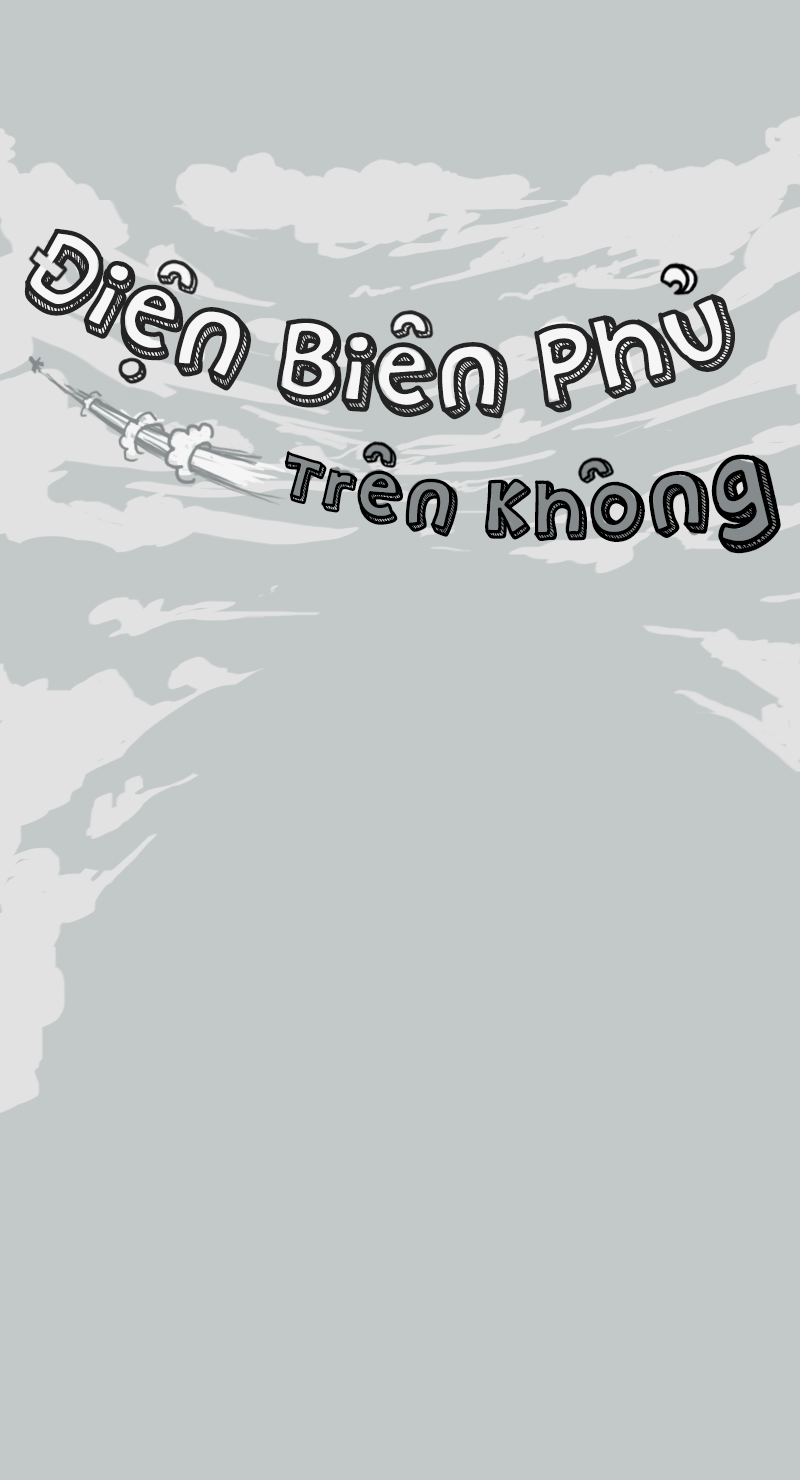
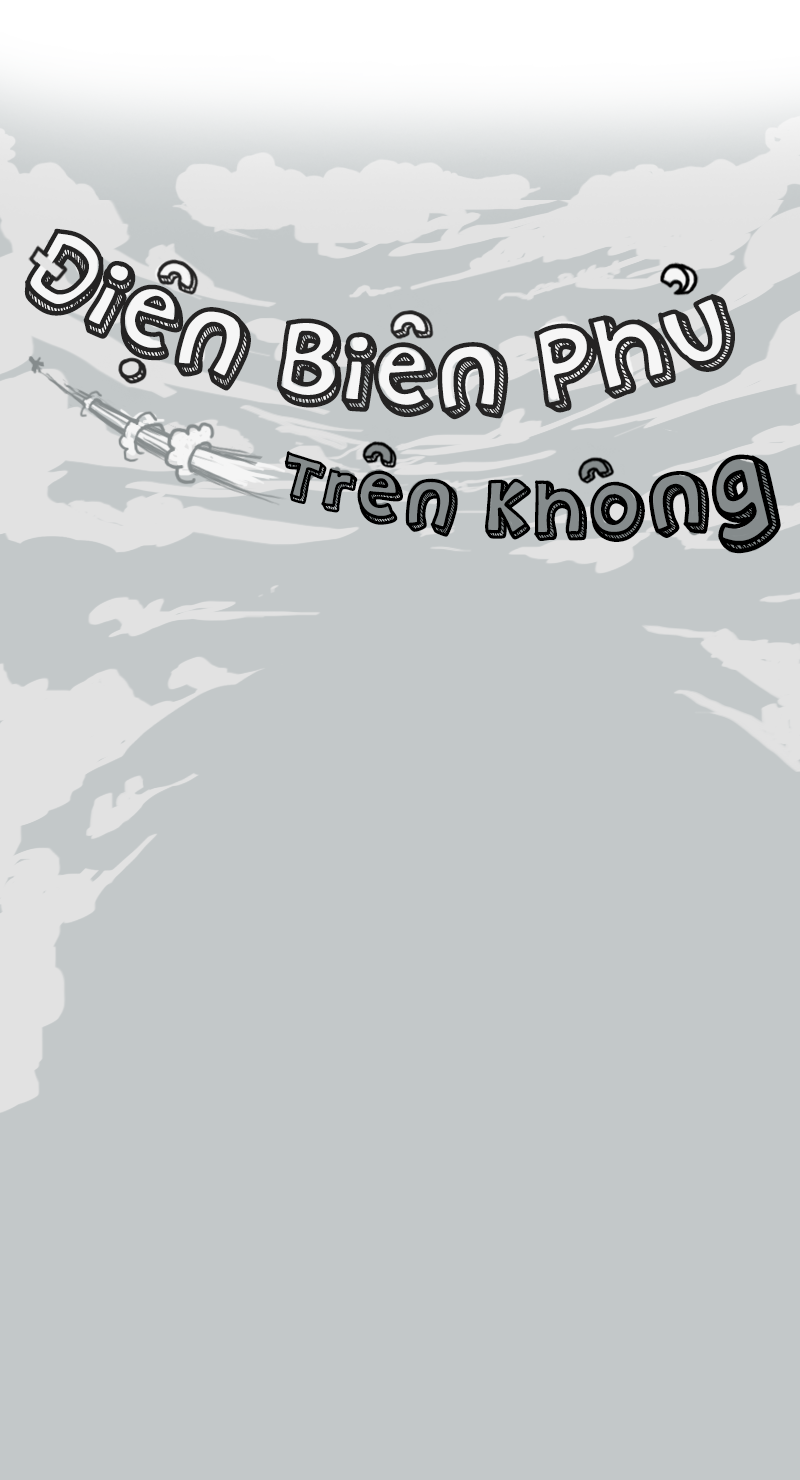
+ Transition: Menu -> Main Game *** BEFORE CHANGE CONFIGURE FILE ***

Changed region(s): [[0.0, 0.0, 1.0, 0.1243]]

diff --git a/trunk/Classes/ScoreScene.cpp b/trunk/Classes/ScoreScene.cpp
@@ -818,26 +818,39 @@ void ScoreScene::fbHighScoresCallback( int responseCode, const char* responseMes
 	m_arrHighScores->retain();
 
 	m_tableXepHangSize = m_arrHighScores->count();
+	std::string myProfileID = DataManager::sharedDataManager()->GetProfileID();
+	int count = m_arrHighScores->count();
 
-	CCObject* it;
-	CCARRAY_FOREACH(m_arrHighScores, it)
+	for (int i = 0; i < count; ++i)
 	{
-		EziFacebookFriend* fbFriend = dynamic_cast<EziFacebookFriend*>(it);
+		EziFacebookFriend* fbFriend = dynamic_cast<EziFacebookFriend*>(m_arrHighScores->objectAtIndex(i));
 		if (NULL != fbFriend)
 		{
 			std::string profileID = fbFriend->getFBID();
-			std::string myProfileID = DataManager::sharedDataManager()->GetProfileID();
 
 			if(profileID == myProfileID)
 			{
 				fbFriend->setScore(DataManager::sharedDataManager()->GetHighScore());
+
+				//////////////////////////////////////////////////////////////////////////
+				//get the next friend to post message
+				if (i+1 < count)
+				{
+					EziFacebookFriend* fbLoser = dynamic_cast<EziFacebookFriend*>(m_arrHighScores->objectAtIndex(i+1));
+					if (fbLoser != NULL)
+					{
+						postMessageToLoser(std::string(fbLoser->getName()),
+							std::string(fbLoser->getFBID()),
+							DataManager::sharedDataManager()->GetHighScore());
+					}
+				}
 			}
-			
+
 			//get avatar
 			EziSocialObject::sharedObject()->getProfilePicForID(this, profileID.c_str(), // Profile ID of current user
 				G_FRIEND_AVATAR_SIZE, G_FRIEND_AVATAR_SIZE, // Size of the image
 				false // force download it from server
-				);
+				);	
 		}
 	}
 
@@ -848,20 +861,29 @@ void ScoreScene::fbHighScoresCallback( int responseCode, const char* responseMes
 	m_tableXephang->reloadData();
 	m_tableQuatang->reloadData();
 	
-	
-	//////////////////////////////////////////////////////////////////////////
-	
-
-	//let try to post message
-	EziSocialObject::sharedObject()->autoPostMessageOnWall(
-		"The Croods",									//heading => Điện Biên Phủ Trên Không
-		"Let got it!",											//caption
-		"Hey, i just got 3000 points in The Croods, do you feel so shy! Kaka :v",		//message => Status
-		"From the creators of Angry Birds and the creative minds at DreamWorks Animation: a FREE new game based on the motion picture phenomenon!",		//descripton
-		"https://lh5.ggpht.com/fblIg4MEELZ7JrBWB9OmEtx07dh-kR83Xwx1KhFMnZHgsk0xw4YreLPrxXwtwZyolGw=w300-rw",		//badgeIconURL
-		"https://play.google.com/store/apps/details?id=com.rovio.croods");							//deepLinkURL
 #endif
 }
+
+void ScoreScene::postMessageToLoser( std::string loserName, std::string loserUserName, int yourScore )
+{
+	CCLOG("postMessageToLoser");
+#if (CC_TARGET_PLATFORM == CC_PLATFORM_ANDROID)
+	CCString* strMessage = CCString::createWithFormat("Hey, i just got %d points in The Croods, following me is %s\nhttps://www.facebook.com/%s! Kaka :v", yourScore, loserName.c_str(), loserUserName.c_str());
+
+	//let try to post message
+	//postMessageOnWall
+	//autoPostMessageOnWall
+
+	EziSocialObject::sharedObject()->autoPostMessageOnWall(
+		"The Croods",					//heading => Điện Biên Phủ Trên Không
+		"Let got it!",					//caption
+		strMessage->getCString(),		//message => Status
+		"From the creators of Angry Birds and the creative minds at DreamWorks Animation: a FREE new game based on the motion picture phenomenon!",	//descripton
+		"http://www.reelmama.com/wp-content/uploads/2013/04/Grug-from-THE-CROODS.jpg", //badgeIconURL
+		"https://play.google.com/store/apps/details?id=com.rovio.croods");	//deepLinkURL
+#endif
+}
+
 
 void ScoreScene::fbMessageCallback(int responseCode, const char* responseMessage)
 {

diff --git a/trunk/Classes/MenuScene.cpp b/trunk/Classes/MenuScene.cpp
@@ -20,7 +20,7 @@ CCScene* MenuScene::scene()
 
 bool MenuScene::init()
 {
-	static int GAME_VERSION = 49;
+	static int GAME_VERSION = 50;
 	//pre proccess
 
 	DataManager::sharedDataManager()->RefreshPlayerLife();
@@ -28,7 +28,7 @@ bool MenuScene::init()
 	//////////////////////////////////////////////////////////////////////////
 	
 
-    if ( !CCLayer::init() )
+    if ( !CCLayerColor::initWithColor(ccc4(195, 200, 201, 255)) )
     {
         return false;
     }
@@ -155,28 +155,46 @@ void MenuScene::refreshLifeIcon()
 
 void MenuScene::playStartAnimation(int lastLife)
 {
+	//CCTransitionProgessVertical
+	//CCTransitionMoveInT
+	//CCTransitionSlideInT
+	
 	CCSprite* spr = (CCSprite*)m_arrSprLife->objectAtIndex(lastLife - 1);
-	CCSequence* seq = CCSequence::create(
-		CCSpawn::create(
-			//CCScaleTo::create(0.5f, 0.0f, 0.0f),
-			//CCFadeOut::create(0.5f)
-			CCMoveTo::create(0.5f, ccp(spr->getPositionX(), 1280 + 200)),
+	float dy = 800;
+
+	CCSpawn* spawn = CCSpawn::create(
+			CCEaseBackIn::create(CCMoveBy::create(dy / 320.0f, ccp(0, dy))),
+			CCSequence::create(
+				CCDelayTime::create(1.0f),
+				CCCallFunc::create(this, callfunc_selector(MenuScene::gotoMainGame)),
+				NULL
+			),
 			NULL
-		),
-		CCCallFunc::create(this, callfunc_selector(MenuScene::gotoMainGame)),
-		NULL);
+		);
+
+	CCSequence* seq = CCSequence::create(
+		//CCDelayTime::create(0.5f),
+		spawn,
+		NULL
+		);
+	
+	MainGameScene::scene();
+
 	spr->runAction(seq);
 }
 
 void MenuScene::gotoMainGame()
 {
-	CCScene *pScene = CCTransitionFade::create(0.5, MainGameScene::scene());
+	CCScene *pScene = CCTransitionSlideInT::create(1280.0f / 480.0f, MainGameScene::scene());
 	CCDirector::sharedDirector()->replaceScene(pScene);
 }
 
 void MenuScene::playCallback(CCObject* pSender)
 {
 	PLAY_ENEMY1_DOWN_EFFECT;
+
+	this->setKeypadEnabled(false);
+	this->setTouchEnabled(false);
 
 	//check if last_player_life > 0
 	int lastLife = DataManager::sharedDataManager()->GetLastPlayerLife();

diff --git a/trunk/Classes/ConfigLoader.cpp b/trunk/Classes/ConfigLoader.cpp
@@ -3,8 +3,20 @@
 
 USING_NS_CC;
 
+//////////////////////////////////////////////////////////////////////////
+
+
+#define CONF_CCSTR(key)		ConfigLoader::shareConfigLoader()->GetValue(key)
+#define CONF_STR(key)		ConfigLoader::shareConfigLoader()->GetValue(key)->getCString()
+#define CONF_INT(key)		ConfigLoader::shareConfigLoader()->GetValue(key)->intValue()
+#define CONF_FLOAT(key)		ConfigLoader::shareConfigLoader()->GetValue(key)->floatValue()
+
+
+//////////////////////////////////////////////////////////////////////////
+
 CCString* ConfigLoader::configeFile = CCStringMake("config.plist");
 ConfigLoader* ConfigLoader::s_instance = NULL;
+
 
 ConfigLoader::ConfigLoader(void)
 {
@@ -14,9 +26,9 @@ ConfigLoader::ConfigLoader(void)
 	CCDictElement* pElement = NULL;
 	CCDICT_FOREACH(m_dict, pElement)
 	{
-		CCString* v = (CCString*)pElement->getObject();
-		std::string oneStrKey = pElement->getStrKey();
-		CCLOG("%s : %s", oneStrKey.c_str(), v->getCString());
+		CCString* val = (CCString*)pElement->getObject();
+		std::string key = pElement->getStrKey();
+		CCLOG("%s : %s", key.c_str(), val->getCString());
 	}
 	CCLOG("------------CONFIG-----------");
 
@@ -88,7 +100,6 @@ ConfigLoader::ConfigLoader(void)
 	G_WAIT_TO_REVIVE = GetValue(std::string("G_WAIT_TO_REVIVE"))->floatValue();
 }
 
-
 ConfigLoader::~ConfigLoader(void)
 {
 }
@@ -105,12 +116,12 @@ ConfigLoader* ConfigLoader::shareConfigLoader()
 
 const CCString* ConfigLoader::GetValue(const std::string key )
 {
-	const CCString* v = m_dict->valueForKey(key);
-	if (v->length() == 0)
+	const CCString* val = m_dict->valueForKey(key);
+	if (val->length() == 0)
 	{
 		CCLOG("NOT A VALID KEY CONFIG: %s", key.c_str());
 		return CCStringMake("NULL_STRING");
 	}
 
-	return v;
+	return val;
 }

diff --git a/trunk/Classes/ObjectLayer.cpp b/trunk/Classes/ObjectLayer.cpp
@@ -9,6 +9,8 @@
 
 USING_NS_CC;
 
+static const int PLAYER_Y = 400;
+
 bool ObjectLayer::init()
 {
     if ( !CCLayer::init() )
@@ -60,7 +62,7 @@ bool ObjectLayer::init()
 
 
 	m_player = Ship::create();
-	m_player->setPosition(ccp(G_DESIGN_WIDTH/2, G_DESIGN_HEIGHT * 0.1));
+	m_player->setPosition(ccp(G_DESIGN_WIDTH/2, PLAYER_Y));
 	this->addChild(m_player, 2);
 
 
@@ -101,7 +103,7 @@ bool ObjectLayer::init()
 
 	m_enemyFactory = EnemyFactory::create();
 	this->addChild(m_enemyFactory, 2);
-	m_enemyFactory->update(-2.0f, m_score); //pause 2s before start generate enemies
+	m_enemyFactory->update(-6.0f, m_score); //pause 2s before start generate enemies
 
 
 	this->schedule(schedule_selector(ObjectLayer::ScheduleGenerateItem), G_TIME_TO_GENERATE_ITEM);
@@ -465,7 +467,7 @@ void ObjectLayer::ReviveGame()
 	//reset
 	m_player->setVisible(true);
 	m_player->Restart();
-	m_player->setPosition(ccp(G_DESIGN_WIDTH/2, G_DESIGN_HEIGHT * 0.1));
+	m_player->setPosition(ccp(G_DESIGN_WIDTH/2, PLAYER_Y));
 }
 
 void ObjectLayer::RestartGame()
@@ -513,7 +515,7 @@ void ObjectLayer::RestartGame()
 	m_isEndGame = false;
 	m_player->setVisible(true);
 	m_player->Restart();
-	m_player->setPosition(ccp(G_DESIGN_WIDTH/2, G_DESIGN_HEIGHT * 0.1));
+	m_player->setPosition(ccp(G_DESIGN_WIDTH/2, PLAYER_Y));
 	
 	m_labelScore->setString("0");
 	m_labelScore->setHorizontalAlignment(kCCTextAlignmentLeft);

diff --git a/trunk/Classes/MainGameScene.cpp b/trunk/Classes/MainGameScene.cpp
@@ -22,7 +22,7 @@ bool MainGameScene::init()
 {
     //////////////////////////////
     // 1. super init first
-    if ( !CCLayer::init() )
+    if ( !CCLayerColor::initWithColor(ccc4(195, 200, 201, 255)) )
     {
         return false;
     }
@@ -32,10 +32,12 @@ bool MainGameScene::init()
 
 	this->setKeypadEnabled(true);
 
-	CCSpriteFrameCache* cache = CCSpriteFrameCache::sharedSpriteFrameCache();
-	cache->addSpriteFramesWithFile("MainGame.plist");
+	CCSpriteFrameCache* sprcache = CCSpriteFrameCache::sharedSpriteFrameCache();
+	sprcache->addSpriteFramesWithFile("MainGame.plist");
+	
 
     m_BackgroundLayer = BackgroundLayer::create();
+	m_BackgroundLayer->unscheduleUpdate();
 	this->addChild(m_BackgroundLayer);
 
 	m_ObjLayer = ObjectLayer::create();
@@ -57,6 +59,12 @@ bool MainGameScene::init()
 	PLAY_BACKGROUND_MUSIC;
 
     return true;
+}
+
+void MainGameScene::onEnterTransitionDidFinish()
+{
+	CCLOG("[FeedAPIScene]: Enter Transition Finished.");
+	m_BackgroundLayer->scheduleUpdate();
 }
 
 void MainGameScene::pauseCallback(CCObject* pSender)

diff --git a/trunk/Classes/MainGameScene.h b/trunk/Classes/MainGameScene.h
@@ -9,11 +9,11 @@
 
 USING_NS_CC;
 
-class MainGameScene : public cocos2d::CCLayer
+class MainGameScene : public cocos2d::CCLayerColor
 {
 public:
 	~MainGameScene() {
-		CCSpriteFrameCache::sharedSpriteFrameCache()->removeUnusedSpriteFrames();
+		//CCSpriteFrameCache::sharedSpriteFrameCache()->removeUnusedSpriteFrames();
 	}
 
     virtual bool init();
@@ -22,6 +22,8 @@ public:
 	void pauseCallback(CCObject* pSender);
 	void resumeCallback();
 	virtual void keyBackClicked();
+
+	void onEnterTransitionDidFinish();
 
 	//cheat
 	void cheatCallback(CCObject* pSender);

diff --git a/trunk/Classes/MenuScene.h b/trunk/Classes/MenuScene.h
@@ -6,7 +6,7 @@
 
 USING_NS_CC;
 
-class MenuScene : public cocos2d::CCLayer
+class MenuScene : public cocos2d::CCLayerColor
 {
 public:
 	~MenuScene() 
@@ -31,6 +31,11 @@ public:
 	void scoreCallback(CCObject* pSender);
 	void soundCallback(CCObject* pSender);
 	
+	void onEnterTransitionDidFinish()
+	{
+		CCSpriteFrameCache* sprcache = CCSpriteFrameCache::sharedSpriteFrameCache();
+		sprcache->addSpriteFramesWithFile("MainGame.plist");
+	}
 
 	void onCompletedWaiting();
 	void onShowDialog();

diff --git a/trunk/Classes/BackgroundLayer.cpp b/trunk/Classes/BackgroundLayer.cpp
@@ -1,4 +1,4 @@
-#include "BackgroundLayer.h"
+#include "BackgroundLayer.h"
 #include "Global.h"
 
 USING_NS_CC;
@@ -28,7 +28,7 @@ bool BackgroundLayer::init()
 }
 
 void BackgroundLayer::update(float dt) {
-	bg1->setPositionY(bg1->getPositionY() - 160 * dt);
+	bg1->setPositionY(bg1->getPositionY() - 160 * dt); // 60/1000 * 160 = số pixel
 	CCSize size = bg1->getContentSize();
 
 	if (bg1->getPositionY() <= - size.height/2)

diff --git a/trunk/Classes/ScoreScene.h b/trunk/Classes/ScoreScene.h
@@ -133,6 +133,7 @@ public:
 	void callSubmitScore();
 	void callGetHighScores();
 	virtual void fbHighScoresCallback(int responseCode, const char* responseMessage, cocos2d::CCArray* highScores);
+	void postMessageToLoser(std::string loserName, std::string loserUserName, int yourScore);
 	virtual void fbMessageCallback(int responseCode, const char* responseMessage);
 
 	// Facebook Callback methods...
